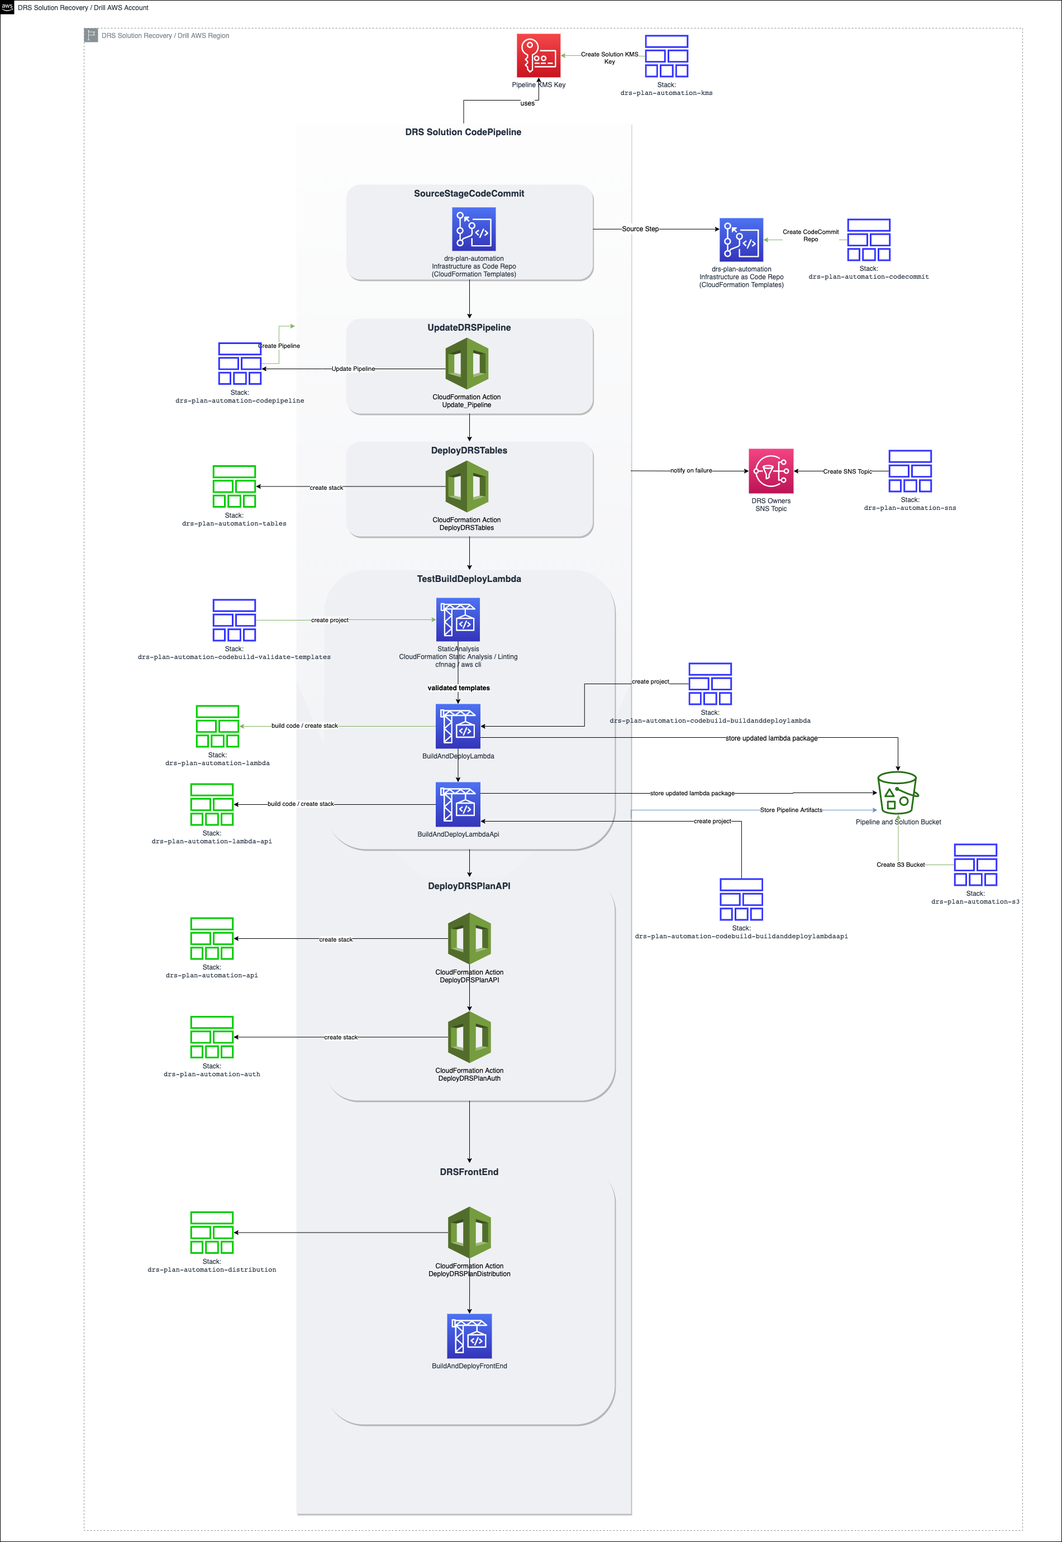
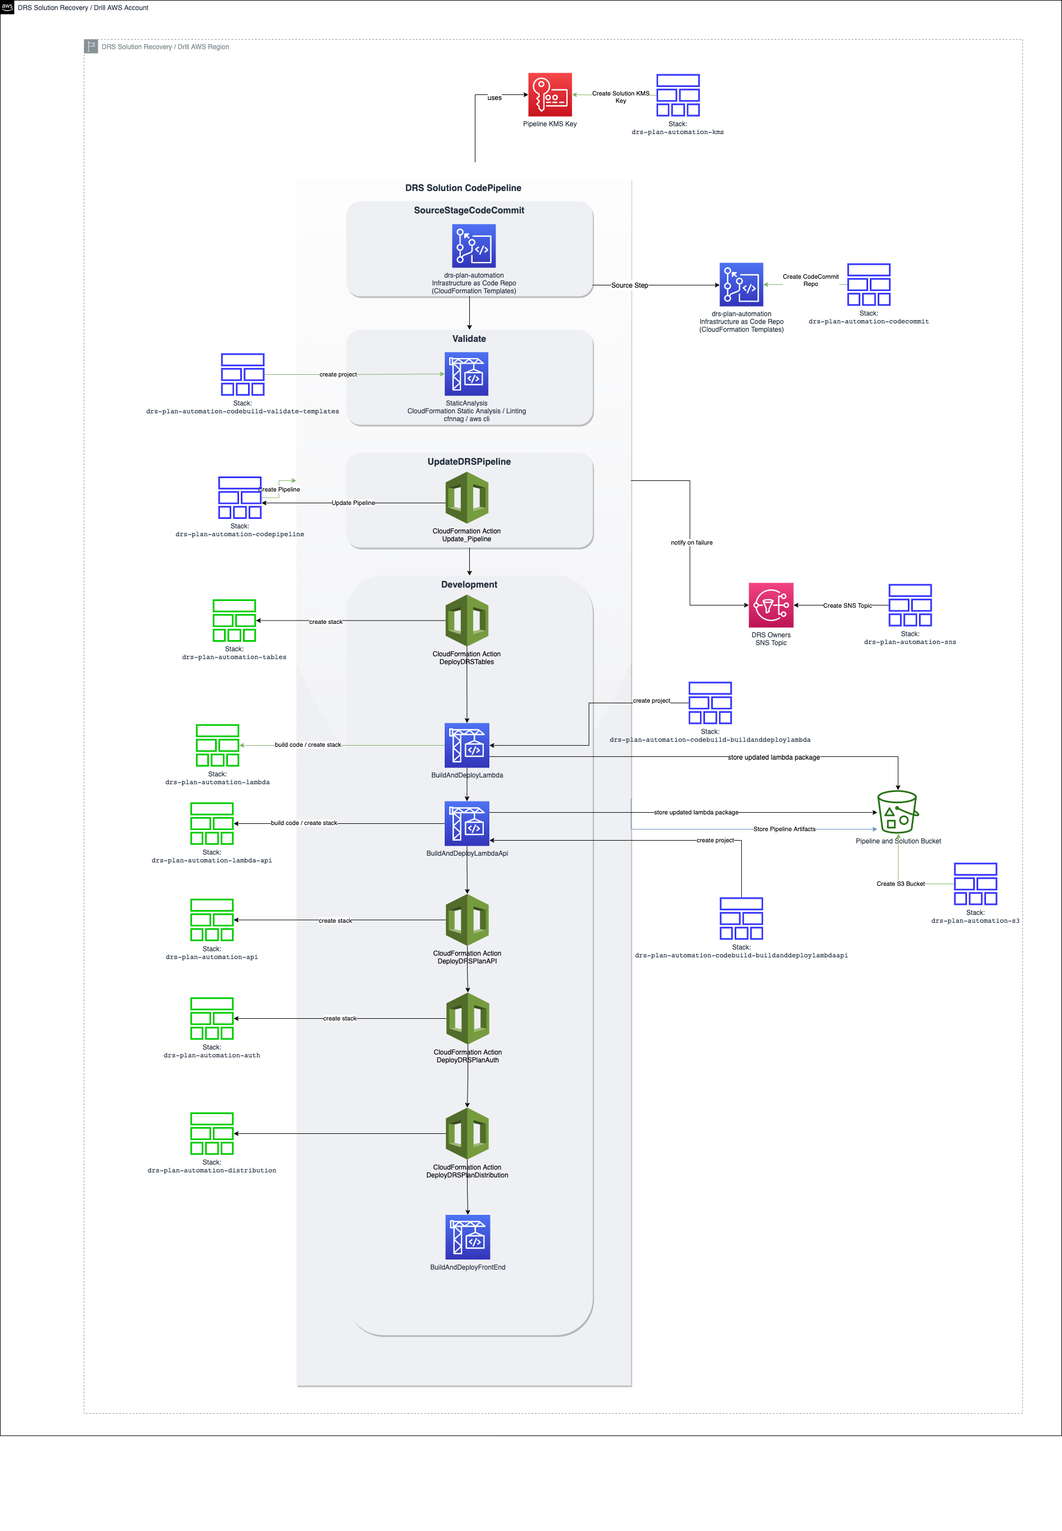
multi-environment deployment and pipeline

diff --git a/drs-plan-automation/deploy.py b/drs-plan-automation/deploy.py
@@ -64,7 +64,7 @@ previous_deploy_params = helper.read_json_file(deploy_config_file_path)
               help="The region where the plan automation solution should be deployed.  This should be the same as the target DRS region")
 @click.option("--prefix", required=False, default=previous_deploy_params.get('prefix', None),
               help="The prefix to preprend in front of each stack name, eg prefix 'myco' results in stack name 'myco-drs-configuration-synchronizer-lambda'")
-@click.option("--environment", required=False, default=previous_deploy_params.get('environment', "dev"),
+@click.option("--environment", required=True, default=previous_deploy_params.get('environment', "dev"),
               help="The initial environment name to append to the end of each stack name, eg environment 'dev' results in stack name 'drs-configuration-synchronizer-dev.  This is also the first environment in the CodePipeline'")
 @click.option('--cleanup', required=False, is_flag=True,
               help="Cleanup the deployed stacks and AWS resources.  If you deployed with the --prefix or --environment option, then you must cleanup with the same option parameters")
@@ -81,17 +81,6 @@ def deploy(allowed_cidrs, user_email, prefix, environment, prompt, cleanup, solu
             'environment': environment
         }
         helper.update_json_file(deploy_config_file_path, deployment_options)
-    else:
-        if previous_deploy_params:
-            logger.info("Previous deployment parameters found:\n{}\n".format(previous_deploy_params))
-            cleanup_response = input("Do you want to use your previous deployment parameters to cleanup? (type `yes` to proceed): ")
-            if cleanup_response == "yes":
-                allowed_cidrs = previous_deploy_params['allowed_cidrs']
-                user_email = previous_deploy_params['user_email']
-                solution_region = previous_deploy_params['solution_region']
-                prefix = previous_deploy_params['prefix']
-                environment = previous_deploy_params['environment']
-
 
     region = solution_region
 
@@ -159,8 +148,8 @@ def deploy(allowed_cidrs, user_email, prefix, environment, prompt, cleanup, solu
     planautomation_tables_stack_name = helper.get_name(solution_prefix, "tables", prefix, environment)
 
     s3_bucket_name_export = 'drs-s3-bucket-name'
-    s3_distribution_bucket_name_export = 'drs-distribution-s3-bucket-name'
-    s3_distribution_logging_bucket_name_export = 'drs-distribution-s3-logging-bucket-name'
+    s3_distribution_bucket_name_export = 'drs-distribution-s3-bucket-name-{}'.format(environment)
+    s3_distribution_logging_bucket_name_export = 'drs-distribution-s3-logging-bucket-name-{}'.format(environment)
 
     if cleanup:
         response = input(
@@ -447,4 +436,13 @@ def deploy(allowed_cidrs, user_email, prefix, environment, prompt, cleanup, solu
 
 
 if __name__ == "__main__":
+    if previous_deploy_params:
+        logger.info("Previous deployment parameters found:\n{}\n".format(previous_deploy_params))
+        cleanup_response = input("Do you want to use your previous deployment parameters? (type `yes` to proceed): ")
+        if cleanup_response == "yes":
+            allowed_cidrs = previous_deploy_params['allowed_cidrs']
+            user_email = previous_deploy_params['user_email']
+            solution_region = previous_deploy_params['solution_region']
+            prefix = previous_deploy_params['prefix']
+            environment = previous_deploy_params['environment']
     deploy()

diff --git a/drs-plan-automation/deploy_sample.py b/drs-plan-automation/deploy_sample.py
@@ -57,14 +57,14 @@ deploy_config_file_path = os.path.join("./", 'deploy_sample.json')
 previous_deploy_params = helper.read_json_file(deploy_config_file_path)
 
 @click.command()
-@click.option("--source-region", required=(False if previous_deploy_params else True), default=None,
+@click.option("--source-region", required=True, default=previous_deploy_params.get('source_region', None),
               help="The region where the sample EC2 environment should be deployed, this should be different from the DRS target DR region")
-@click.option("--solution-region", required=(False if previous_deploy_params else True), default=None,
+@click.option("--solution-region", required=True, default=previous_deploy_params.get('solution_region', None),
               help="The region where the plan automation solution is deployed.  This should be the same as the target DRS region")
 @click.option("--prefix", required=False, default=None,
-              help="The prefix to preprend in front of each stack name, eg prefix 'myco' results in stack name 'myco-drs-configuration-synchronizer-lambda'")
-@click.option("--environment", required=False, default=None,
-              help="The environment name to append to the end of each stack name, eg environment 'dev' results in stack name 'drs-configuration-synchronizer-dev'")
+              help="The prefix to preprend in front of each stack name, eg prefix 'myco' results in stack name 'myco-drs-plan-automation-sample-drs-environment'")
+@click.option("--environment", required=False, default=previous_deploy_params.get('environment', "dev"),
+              help="The environment name to append to the end of each stack name, eg environment 'dev' results in stack name 'drs-plan-automation-sample-drs-environment-dev'")
 @click.option('--cleanup', required=False, is_flag=True,
               help="Cleanup the deployed stacks and AWS resources.  If you deployed with the --prefix or --environment option, then you must cleanup with the same option parameters")
 @click.option('--prompt', required=False, is_flag=True,
@@ -156,11 +156,11 @@ def deploy(source_region, solution_region, prefix, environment, prompt, cleanup)
     file_path = os.path.join("./", 'samples/sample_data/sample_application.json')
     helper.update_json_file(file_path, account_record)
 
-    helper.put_item_file('drs-plan-automation-applications', 'samples/sample_data/sample_application.json', creds, solution_region)
+    helper.put_item_file('drs-plan-automation-applications-{}'.format(environment), 'samples/sample_data/sample_application.json', creds, solution_region)
     logger.info("Inserting sample result object into DynamoDB table")
-    helper.put_item_file('drs-plan-automation-results', 'samples/sample_data/sample_result.json', creds, solution_region)
+    helper.put_item_file('drs-plan-automation-results-{}'.format(environment), 'samples/sample_data/sample_result.json', creds, solution_region)
     logger.info("Inserting solution account object into DynamoDB table")
-    helper.ddb_put_item(creds,account_record,solution_region, 'drs-plan-automation-accounts')
+    helper.ddb_put_item(creds,account_record,solution_region, 'drs-plan-automation-accounts-{}'.format(environment))
 
 
     logger.info(

diff --git a/drs-plan-automation/helper.py b/drs-plan-automation/helper.py
@@ -124,6 +124,9 @@ def delete_item(table, item_key, assumed_credentials, region):
         )
         logger.info("Deleted sample application item from DynamoDB table: {}".format(table))
     except Exception as e:
+        if 'ResourceNotFoundException' in str(e):
+            logger.warning("Object not found or table doesn't exist, skipping..")
+            return
         logger.error('Failure deleting object with key {} in table {}: {}'.format(item_key, table, e))
         raise
 
@@ -501,7 +504,7 @@ def read_json_file(filename):
             param_doc_json = json.loads(param_doc_string)
             return param_doc_json
     else:
-        return None
+        return param_doc_json
 
 
 def create_document(name, file, tags, assumed_credentials):

diff --git a/drs-plan-automation/README.MD b/drs-plan-automation/README.MD
@@ -1,13 +1,14 @@
 # AWS Elastic Disaster Recovery Service (DRS) Plan Automation Solution
 
 ## Overview
+
 This solution provides an automated, sequential approach for AWS DRS drills and recoveries.  The solution enables you to plan multiple application recoveries, each with their own recovery order and wait times.  The solution provides a protected, React based user interface to accelerate and simplify use.
 
-The solution enables you to organize collections of servers by tags in ordered waves, so you can recovery architectural components as groups.  Each wave can also have a sequenced set of PreWave and PostWave automation actions.  Automation actions are defined as SSM Automation runbooks providing broad flexibility for sequenced recovery.  This enables you to support and orchestrate managed services recovery and automation for AWS services such as RDS, Lambda, Route 53, S3, etc either before or after a grouped EC2 recovery completed by DRS.  
+The solution enables you to organize collections of servers by tags in ordered waves, so you can recovery architectural components as groups.  Each wave can also have a sequenced set of PreWave and PostWave automation actions.  Automation actions are defined as SSM Automation runbooks providing broad flexibility for sequenced recovery.  This enables you to support and orchestrate managed services recovery and automation for AWS services such as RDS, Lambda, Route 53, S3, etc either before or after a grouped EC2 recovery completed by DRS.
 
 ### Features
 
-* Organize and define automated disaster recovery plans for your applications using DRS in multiple AWS accounts and sequence the recovery of your servers and automation 
+* Organize and define automated disaster recovery plans for your applications using DRS in multiple AWS accounts and sequence the recovery of your servers and automation
 * Specify and execute sequenced automation before and after server recovery as SSM Automation runbooks
 * Define, copy, and test multiple recovery plans
 * Define and copy multiple sequenced plan automation waves within a plan
@@ -15,11 +16,13 @@ The solution enables you to organize collections of servers by tags in ordered w
 * Enhance and implement your own features using CodePipeline / CodeCommit
 
 ## Application Architecture
+
 The solution provides a React based UI requiring authorized login provided by Amazon Cognito.  The solution also uses AWS WAF to limit access to the defined IP addresses / CIDRs that you specify.  The solution uses API Gateway and AWS Lambda to interface with Step Functions for orchestration and DynamoDB for data capture / retrieval.
 
 ![](diagrams/DRSPlanAutomationBaselineArchitecture.png)
 
 ## State Machine and control logic
+
 The solution uses AWS Step Functions to orchestrate recovery based on your plans defined sequence set of Waves and PreWave / PostWave actions. AWS Lambda is used to drive recovery / automation execution logic.
 
 The following state machine is implemented to coordinate the execution of PreWave Actions, DRS Jobs, and PostWave Actions for DR plan automation.  The state machine is supported by an AWS Lambda function that implements the control logic for the plan automation.  The state machine and lambda function are deployed via CodePipeline using the [drs-automation-plan.yaml](drs-automation-plan/cfn/lambda/drs-automation-plan/drs-automation-plan.yaml) CloudFormation template.
@@ -32,7 +35,7 @@ The primary entities in the solution are:  Applications, Plans, Waves, PreWave A
 
 ![](diagrams/EntityRelationDiagram.png)
 
-The primary entities for results are similar. 
+The primary entities for results are similar.
 
 Data is stored in JSON format in DynamoDB.  There are three DynamoDB tables used by the solution:
 
@@ -41,6 +44,7 @@ Data is stored in JSON format in DynamoDB.  There are three DynamoDB tables used
 * **drs-plan-automation-results**:  This table is used to store drill / recovery execution results.
 
 ### drs-plan-automation-accounts
+
 This table is used to store the AWS accounts and DRS regions that applications can be configured to use.
 
 #### Sample Item
@@ -60,6 +64,7 @@ This table is used to store the AWS accounts and DRS regions that applications c
 ### drs-plan-automation-applications
 
 #### Sample Item
+
 ```json
 {
   "AppId": "9b1deb4d-3b7d-4bad-9bdd-2b0d7b3dcb6d",
@@ -145,6 +150,7 @@ This table is used to store the AWS accounts and DRS regions that applications c
   ]
 }
 ```
+
 * **AppId** _(string)_ --
   A system generated uuid that uniquely identifies each application.  The AppId is the key for the table and is a uuidv4 hash generated by the REST API whenever a new application is created.
 * **AppName** _(string)_ --
@@ -227,9 +233,11 @@ This table is used to store the AWS accounts and DRS regions that applications c
               The SSM Automation Runbook parameters as defined in the [boto3 start_automation_execution function](https://boto3.amazonaws.com/v1/documentation/api/latest/reference/services/ssm.html#SSM.Client.start_automation_execution).
 
 ### drs-plan-automation-results
+
 This table stores the results from a plan automation execution.
 
 #### Sample Item
+
 ```json
 {
   "AppId_PlanId": "9b1deb4d-3b7d-4bad-9bdd-2b0d7b3dcb6d_9b1deb4d-3b7d-4bad-9bdd-2b0d7b3dcb6a",
@@ -415,23 +423,33 @@ This table stores the results from a plan automation execution.
     * **status** _(string)_ --
       The status for the Wave.  Possible values are `completed`, `failed`, `timeout`
 
-
 ## CI / CD Architecture
-The solution deploys a complete CI/CD management solution using CodeCommit, CodePipeline, CodeBuild, and CloudFormation.  You can use this pipeline to iteratively make controlled changes and enhance your plan automation solution as needed.
+
+The solution deploys a complete CI/CD management solution using CodeCommit, CodePipeline, CodeBuild, and CloudFormation.  
+The solution commits the codebase and deployment options you have chosen and initiates CodePipeline to perform the remainder of the solution deployment.
+You can use this pipeline to iteratively make controlled changes and enhance your plan automation solution as needed.
+The pipeline creates a "Development" stage with all resources prefixed and configured to support multiple environments, as needed.
+You can add additional environment stages and configure the CodePipeline actions for the green colored stacks for additional environment support.
 
 ![](diagrams/DRSPlanAutomationPipeline.png)
 
+The stacks color coded in blue in the diagram are deployed once when you deploy the solution.  The stacks color coded in green are created / updated by CodePipeline on initial deployment and commit from CodeCommit.
+
+![](diagrams/DRSPlanAutomationCodePipeline.png)
 
 ## Deployment
+
 Deployment is performed by CloudFormation stack deployment and script automation.  A script is provided to automate the deployment steps.
 
 ### Prerequisites
+
 * [SAM CLI](https://docs.aws.amazon.com/serverless-application-model/latest/developerguide/install-sam-cli.html):  The SAM CLI is used to build and deploy the lambda functions used in the solution.  These lambda functions are deployed via CodePipeline.  You should install the SAM CLI to enable you to locally test and invoke the deployed lambda functions.  Install the SAM CLI following the instructions in the documentation.
 * Python 3:  The deployment script is written in Python and automates the deployment of cloudformation stacks and AWS resource lookups.  With Python3 installed, install the required Python packages in [requirements.txt](./requirements.txt) with the command:
 * Elastic Disaster Recovery Service (DRS) initialized in target region:  Before you can start using the DRS service, you must initialize the service by configuring the default settings in your target DR region. [Follow the instructions in the documentation](https://docs.aws.amazon.com/drs/latest/userguide/getting-started-initializing.html).
 * Set the environment variables: `AWS_ACCESS_KEY_ID`, `AWS_SECRET_ACCESS_KEY`, `AWS_SESSION_TOKEN` to the AWS account credentials that you want to use to deploy the solution.  You will need sufficient credentials to deploy all the AWS resources used in the solution.
 
 The deployment scripts provided rely on packages defined in [requirements.txt](./requirements.txt).  You can install them with the following command:
+
 ```shell
 python3 -m pip install -r requirements.txt --user
 ```
@@ -443,11 +461,13 @@ A python [deploy.py](./deploy.py) script is provided to automate the deployment 
 This script deploys all the blue colored stacks in the [CI / CD Architecture diagram](#ci--cd-architecture).  The script concludes by deploying a CodePipeline that deploys the remaining stacks for the solution and defines the basis for future updates.
 
 #### Usage
+
 Run your python interpreter against the `deploy.py` script with the required options.
 
 ```shell
 python3 deploy.py [OPTIONS]
 ```
+
 * Options:
 * **`--user-email`** - **REQUIRED**: The email address for the cognito user for the solution.  A new temporary password will be sent to this user to login to the solution.
 * **`--solution-region`** - **REQUIRED**: The region where the plan automation solution should be deployed.  This should be the same as the target DRS region.
@@ -459,10 +479,10 @@ python3 deploy.py [OPTIONS]
 * **`--help`**: Show this message and exit.
 
 ## Sample Application and Sample Environment
+
 The solution includes a sample application and environment, so you can quickly explore and test out the solution.
 
 ![](diagrams/sample_application.png)
-
 
 The sample application and environment deploys the following resources:
 
@@ -484,6 +504,7 @@ The sample application and environment deploys the following resources:
 **NOTE**:  EC2 instance tags are not replicated to the corresponding DRS source servers in the DRS service.  These tags are required on the source servers so that the plan automation solution can select the right source servers for plan execution.  You can automate the replication of EC2 instance tags to corresponding DRS source servers using the [drs-synch-ec2-tags-and-instance-type solution](https://github.com/aws-samples/drs-tools/tree/main/drs-synch-ec2-tags-and-instance-type)
 
 * [One Application DynamoDB Item Record](./samples/sample_data/sample_application.json):  This application record aligns to the sample EC2 environment,  all three EC2 instances align to the `Application: sample` tag used to identify the application.  Additionally, each EC2 instance is tagged with a `Role` tag aligning it to each wave.
+
   * Application: sample - All three EC2 instances in the sample environment are tagged with `Application: Sample`
   * 1 Plan:
     * 3 Waves
@@ -496,7 +517,6 @@ The sample application and environment deploys the following resources:
       * Role: WebServer - One EC2 instance is tagged with `Role: WebServer`
         * 1 PreWave Action:  Create SSM OpsItem
         * 1 PostWave Action:  Create SSM OpsItem
-
 * [One Application Result Item record](./samples/sample_data/sample_result.json):  This result record demonstrates the Plan Results view without requiring you to initiate a drill / recovery.  NOTE:  The links in the result will not work since they are not linked to your deployment.  You can execute a new drill / recovery to product an actual result with working links.
 
 ### Sample Application Deployment Script
@@ -510,6 +530,7 @@ python3 deploy_sample.py [OPTIONS]
 ```
 
 Options:
+
 * **```--source-region```**:  **REQUIRED** - Specify the AWS region where the sample AWS EC2 environment should be deployed.  This will be a region different from your DRS / DR region. (e.g. us-east-1)
 * **```--solution-region```**:  **REQUIRED** - Specify the AWS region where the solution has been deployed.  This should be the same AWS region where DRS is configured. (e.g. us-west-2)
 * **```--help```**:  Display and describe valid parameter options
@@ -518,21 +539,19 @@ Options:
 * **```--cleanup```**:  Cleanup the deployed stacks and AWS resources.  You must cleanup with the same parameter options that you specified for deployment.
 * **```--prompt```**:  Whether to prompt and require you to press enter after each stack is deployed.
 
-
 ## Usage
 
 Once the solution is deployed, CodePipeline will execute and deploy the remaining resources through the pipeline.
 
 Wait until the pipeline successfully completes execution.  Once the pipeline has completed execution, proceed to Amazon CloudFront in the AWS Management Console.
 
-Copy the CloudFront distribution URL and open it within a browser.  
+Copy the CloudFront distribution URL and open it within a browser.
 
-**NOTE**:  If you used the `--allowed-cidrs` option when you deployed the solution, then you will only be able to access the user interface if your ip address is within the range specified. 
+**NOTE**:  If you used the `--allowed-cidrs` option when you deployed the solution, then you will only be able to access the user interface if your ip address is within the range specified.
 
 Check the email address that you specified with the `--user-email` option.  You should have received an email with subject **Your temporary password** from Amazon Cognito.  You will need to login with this password.  Cognito user registration is disabled by default.  Once you login you will be required to change the password.
 
 If you deployed the sample application with the [deploy_sample.py](./deploy_sample.py) script, then you will have a sample application already created in the solution.  If not, you can proceed to create an application, plan, and associated waves.
-
 
 ## Develop and test locally
 
@@ -540,25 +559,23 @@ You can enhance and develop the front end interface and lambda functions used in
 
 You should clone the CodeCommit repository that was created for you with the deployed solution.  The CodeCommit repository is linked to CodePipeline to initiate a deployment on commit to the `main` branch.
 
-You should develop and test locally against your cloned CodeCommit repository in a feature branch.  When you are ready to integrate your changes you should commit, push, and merge the branch into the main branch to initiate a deployment.  
+You should develop and test locally against your cloned CodeCommit repository in a feature branch.  When you are ready to integrate your changes you should commit, push, and merge the branch into the main branch to initiate a deployment.
 
 ### Frontend React Interface Local Development
 
 Follow these steps to configure, deploy, develop, and test the solution locally.
 
-1.  Update the [aws-exports.js](./fe/src/aws-exports.js) file with your deployed Amazon Cognito User Pool configuration.
-    You must update the config file with your deployed cognito user pool so that your locally deployed interface can authenticate you.
-2.  Install the application package dependencies
-    Install the application dependencies by:
-    a. Change to the src directory:  `cd fe/src`
-    b. Install the dependencies: `npm install`
-3.  Start the local webserver.  You can serve the frontend interface locally with:  `npm start`
-4.  Make changes to the front end code.  As you make changes to the front end code, the local server will hotload the changes so you can iterate and update the solution.
-
-
+1. Update the [aws-exports.js](./fe/src/aws-exports.js) file with your deployed Amazon Cognito User Pool configuration.
+   You must update the config file with your deployed cognito user pool so that your locally deployed interface can authenticate you.
+2. Install the application package dependencies
+   Install the application dependencies by:
+   a. Change to the src directory:  `cd fe/src`
+   b. Install the dependencies: `npm install`
+3. Start the local webserver.  You can serve the frontend interface locally with:  `npm start`
+4. Make changes to the front end code.  As you make changes to the front end code, the local server will hotload the changes so you can iterate and update the solution.
 
 ## Troubleshooting
 
 * ### I am getting a 403 error when trying to access the CloudFront distribution
-  Make sure your ip address is within the IP address range for the CIDR block you specified when you deployed the solution with the `--allowed-cidrs` option.
 
+  Make sure your ip address is within the IP address range for the CIDR block you specified when you deployed the solution with the `--allowed-cidrs` option.
